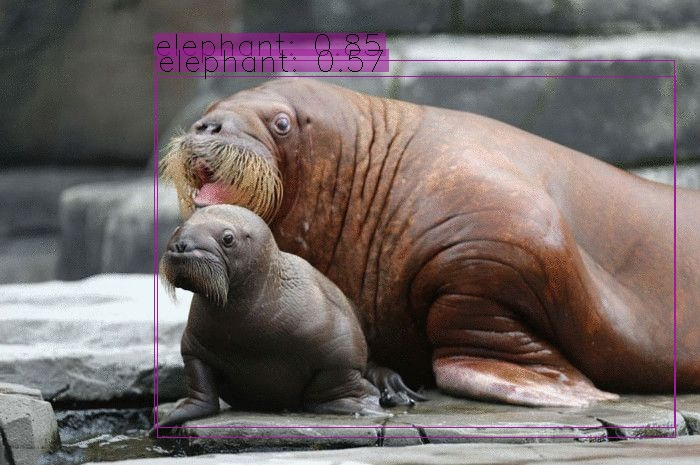
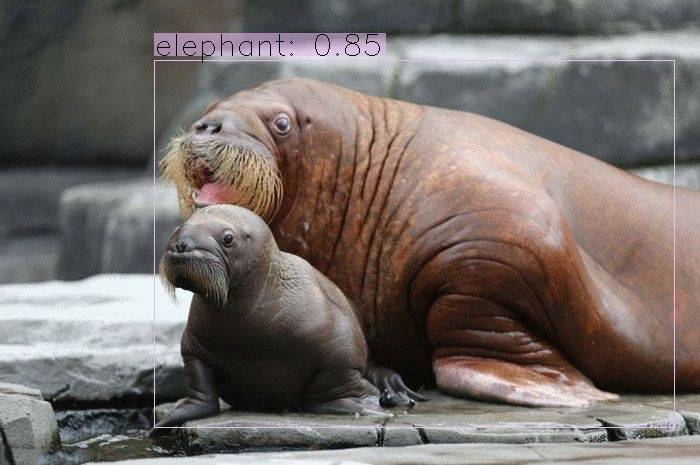
create functions

Changed region(s): [[0.21, 0.0602, 0.96, 0.9333], [0.24, 0.9333, 0.96, 0.9634], [0.96, 0.9032, 0.99, 0.9333]]

diff --git a/service/app.py b/service/app.py
@@ -1,3 +1,5 @@
+from asyncio.log import logger
+import logging
 import os
 import time
 import sys
@@ -5,6 +7,8 @@ from pathlib import Path
 
 import cv2
 import numpy as np
+
+logg = logging.getLogger(__name__)
 
 CONFIDENCE = 0.5
 SCORE_THRESHOLD = 0.5
@@ -21,10 +25,11 @@ labels_path = Path('service/data/coco.names')
 image_path = 'service/images/morj_2.jpg'
 
 # загрузка всех меток классов (объектов)
-print(Path.cwd())
+logg.debug(Path.cwd())
+
 with open(labels_path, 'r') as f:
     labels = f.read().strip().split('\n')
-#labels = open("data/coco.names").read().strip().split("\n")
+
 
 # генерируем цвета для каждого объекта и последующего построения
 colors = np.random.randint(0, 255, size=(len(labels), 3), dtype='uint8')
@@ -40,87 +45,115 @@ filename, ext = image_file_basename.split('.')
 
 # Затем нам нужно нормализовать, масштабировать и изменить это изображение
 h, w = image.shape[:2]
-# создать 4D blob
-blob = cv2.dnn.blobFromImage(image, 1/255.0, (416, 416), swapRB=True, crop=False)
-
-print('image.shape', image.shape)
-print('blob.shape', blob.shape)
 
 
-# прогнозирование
-#############################################
-# усанавливаем blob как вход сети
-net.setInput(blob)
-# получаем имена всех слоев
-ln = net.getLayerNames()
-#print(ln)
-#print([i-1 for i in net.getUnconnectedOutLayers()])
-# здесь исправил от исходного было ln[i[0] - 1] 
-ln = [ln[i - 1] for i in net.getUnconnectedOutLayers()]
-# прямая связь (вывод) и получение выхода сети
-# измерение времени для обработки в секундах
-start = time.perf_counter()
-layer_outputs = net.forward(ln)
-delta_time = time.perf_counter() - start
-print(f'Потребовалось: {delta_time:.2f}s')
+def create_layer(image: cv2) -> cv2:
+    # прогнозирование
+    ####################################################################
+    # создать 4D blob
+    blob = cv2.dnn.blobFromImage(image, 1/255.0, (416, 416), swapRB=True, crop=False)
+
+    logg.debug(f'image.shape: {image.shape}, blob.shape {blob.shape}')
+    # усанавливаем blob как вход сети
+    net.setInput(blob)
+    # получаем имена всех слоев
+    ln = net.getLayerNames()
+    # здесь исправил от исходного было ln[i[0] - 1]
+    ln = [ln[i - 1] for i in net.getUnconnectedOutLayers()]
+    # прямая связь (вывод) и получение выхода сети
+    # измерение времени для обработки в секундах
+    start = time.perf_counter()
+    layer_outputs = net.forward(ln)
+    delta_time = time.perf_counter() - start
+    logg.debug(f'Потребовалось: {delta_time:.2f}s')
+    return layer_outputs
 
 
-# еребрать выходные данные нейронной сети и отбросить все объекты, уровень достоверности 
-# идентификации которых меньше, чем параметр CONFIDENCE
+def create_entities(image: cv2) -> list:
+    # еребрать выходные данные нейронной сети и отбросить все объекты, уровень достоверности
+    # идентификации которых меньше, чем параметр CONFIDENCE
+    layer_outputs = create_layer(image)
+    boxes, confidences, class_ids = [], [], []
+    # перебираем каждый выход слоя
+    for output in layer_outputs:
+        # перебираем каждое обнаружение объекта
+        for detection in output:
+            # извлекаем идентификатор класса (метку) и достоверность (как вероятность)
+            # обнаружение текущего объекта
+            scores = detection[5:]
+            class_id = np.argmax(scores)
+            confidence = scores[class_id]
+            # отбросьте слабые прогнозы, убедившись, что обнаруженные
+            # вероятность больше минимальной вероятности
+            if confidence > CONFIDENCE:
+                # масштабируем координаты ограничивающего прямоугольника относительно
+                # размер изображения, учитывая, что YOLO на самом деле
+                # возвращает центральные координаты (x, y) ограничивающего
+                # поля, за которым следуют ширина и высота поля
+                box = detection[:4] * np.array([w, h, w, h])
+                (centerX, centerY, width, height) = box.astype('int')
+                # используем центральные координаты (x, y) для получения вершины и
+                # и левый угол ограничительной рамки
+                x = int(centerX - (width / 2))
+                y = int(centerY - (height / 2))
+                # обновить наш список координат ограничивающего прямоугольника, достоверности,
+                # и идентификаторы класса
+                boxes.append([x, y, int(width), int(height)])
+                confidences.append(float(confidence))
+                class_ids.append(class_id)
 
-font_scale = 1
-thickness = 1
-boxes, confidences, class_ids = [], [], []
-# перебираем каждый выход слоя
-for output in layer_outputs:
-    # перебираем каждое обнаружение объекта
-    for detection in output:
-        # извлекаем идентификатор класса (метку) и достоверность (как вероятность)
-        # обнаружение текущего объекта
-        scores = detection[5:]
-        class_id = np.argmax(scores)
-        confidence = scores[class_id]
-        # отбросьте слабые прогнозы, убедившись, что обнаруженные
-        # вероятность больше минимальной вероятности
-        if confidence > CONFIDENCE:
-            # масштабируем координаты ограничивающего прямоугольника относительно
-            # размер изображения, учитывая, что YOLO на самом деле
-            # возвращает центральные координаты (x, y) ограничивающего
-            # поля, за которым следуют ширина и высота поля
-            box = detection[:4] * np.array([w, h, w, h])
-            (centerX, centerY, width, height) = box.astype('int')
-            # используем центральные координаты (x, y) для получения вершины и
-            # и левый угол ограничительной рамки
-            x = int(centerX - (width / 2))
-            y = int(centerY - (height / 2))
-            # обновить наш список координат ограничивающего прямоугольника, достоверности,
-            # и идентификаторы класса
-            boxes.append([x, y, int(width), int(height)])
-            confidences.append(float(confidence))
-            class_ids.append(class_id)
+    logg.info(f'detection.shape: {detection.shape}')
+    return boxes, confidences, class_ids
 
-print(detection.shape)
-
+# Отрисовка обнаруженных объектов
+####################################################################
 # перебираем сохраняемые индексы
-for i in range(len(boxes)):
-    # извлекаем координаты ограничивающего прямоугольника
-    x, y = boxes[i][0], boxes[i][1]
-    w, h = boxes[i][2], boxes[i][3]
-    # рисуем прямоугольник ограничивающей рамки и подписываем на изображении
-    color = [int(c) for c in colors[class_ids[i]]]
-    cv2.rectangle(image, (x, y), (x+w, y+h), color=color, thickness=thickness)
-    text = f'{labels[class_ids[i]]}: {confidences[i]:.2f}'
-    # вычисляем ширину и высоту текста, чтобы рисовать прозрачные поля в качестве фона текста
-    (text_width, text_height) = cv2.getTextSize(text, cv2.FONT_HERSHEY_SIMPLEX, fontScale=font_scale, thickness=thickness)[0]
-    text_offset_x = x
-    text_offset_y = y - 5
-    box_coords = ((text_offset_x, text_offset_y), (text_offset_x + text_width + 2, text_offset_y - text_height))
-    overlay = image.copy()
-    cv2.rectangle(overlay, box_coords[0], box_coords[1], color=color, thickness=cv2.FILLED)
-    # добавить непрозрачность (прозрачность поля)
-    image = cv2.addWeighted(overlay, 0.6, image, 0.4, 0)
-    # теперь поместите текст (метка: доверие%)
-    cv2.putText(image, text, (x, y - 5), cv2.FONT_HERSHEY_SIMPLEX,
-        fontScale=font_scale, color=(0, 0, 0), thickness=thickness)
+def render_image(idxs: cv2, image: cv2, boxes, confidences, class_ids) -> None:
+    font_scale = 1
+    thickness = 1
 
-cv2.imwrite('service/recognized/'+filename + '_yolov3.' + ext, image)
+
+    for i in idxs.flatten():
+        # извлекаем координаты ограничивающего прямоугольника
+        x, y = boxes[i][0], boxes[i][1]
+        w, h = boxes[i][2], boxes[i][3]
+        # рисуем прямоугольник ограничивающей рамки и подписываем на изображении
+        color = [int(c) for c in colors[class_ids[i]]]
+        cv2.rectangle(image, (x, y), (x + w, y + h), color=color, thickness=thickness)
+        text = f'{labels[class_ids[i]]}: {confidences[i]:.2f}'
+        # вычисляем ширину и высоту текста, чтобы рисовать прозрачные поля в качестве фона текста
+        (text_width, text_height) = cv2.getTextSize(
+            text, cv2.FONT_HERSHEY_SIMPLEX, fontScale=font_scale, thickness=thickness,
+        )[0]
+        text_offset_x = x
+        text_offset_y = y - 5
+        box_coords = (
+            (text_offset_x, text_offset_y),
+            (text_offset_x + text_width + 2, text_offset_y - text_height),
+        )
+        overlay = image.copy()
+        cv2.rectangle(overlay, box_coords[0], box_coords[1], color=color, thickness=cv2.FILLED)
+        # добавим непрозрачность (прозрчость) поля
+        image = cv2.addWeighted(overlay, 0.6, image, 0.4, 0)
+        # теперь поместим текст (меткаЖ доверие %)
+        cv2.putText(
+            image, text, (x, y - 5),
+            cv2.FONT_HERSHEY_SIMPLEX,
+            fontScale=font_scale,
+            color=(0, 0, 0),
+            thickness=thickness,
+        )
+
+    cv2.imwrite('service/recognized/' + filename + '_yolov3.' + ext, image)
+
+
+# Non-maximal Suppression
+####################################################################
+# выполнить не максимальное подавление с учетом оценок, определенных ранее
+
+
+def recognize():
+    boxes, confidences, class_ids = create_entities(image)
+    idxs = cv2.dnn.NMSBoxes(boxes, confidences, SCORE_THRESHOLD, IOU_THRESHOLD)
+    if len(idxs) > 0:
+        render_image(idxs, image, boxes, confidences, class_ids)

diff --git a/service/__main__.py b/service/__main__.py
@@ -1,0 +1,8 @@
+import logging
+
+from service import app
+
+logging.basicConfig(level=logging.DEBUG)
+
+if __name__ == '__main__':
+    app.recognize()

diff --git a/README.md b/README.md
@@ -1,11 +1,18 @@
 # learn_opencv
 
 ## Ссылки на обучающий материал
+
+В этом уроке вы узнаете, как найти и обнаружить объекты с помощью современной техники YOLO v3 с OpenCV или PyTorch в Python
 https://waksoft.susu.ru/2021/05/19/kak-vypolnit-obnaruzhenie-obektov-yolo-s-pomoshhyu-opencv-i-pytorch-v-python/https://waksoft.susu.ru/2021/05/19/kak-vypolnit-obnaruzhenie-obektov-yolo-s-pomoshhyu-opencv-i-pytorch-v-python/
 
-для получения файла весов wget https://pjreddie.com/media/files/yolov3.weights
+    для получения файла весов wget https://pjreddie.com/media/files/yolov3.weights
 
-с сайта YOLO project https://pjreddie.com/darknet/yolo/
+    с сайта YOLO project https://pjreddie.com/darknet/yolo/
 
+
+статья про opencv 
+https://habr.com/ru/post/519454/
+
+MASK-RCNN для поиска крыш по снимкам с беспилотников
 https://habr.com/ru/company/lanit/blog/500752/
 
